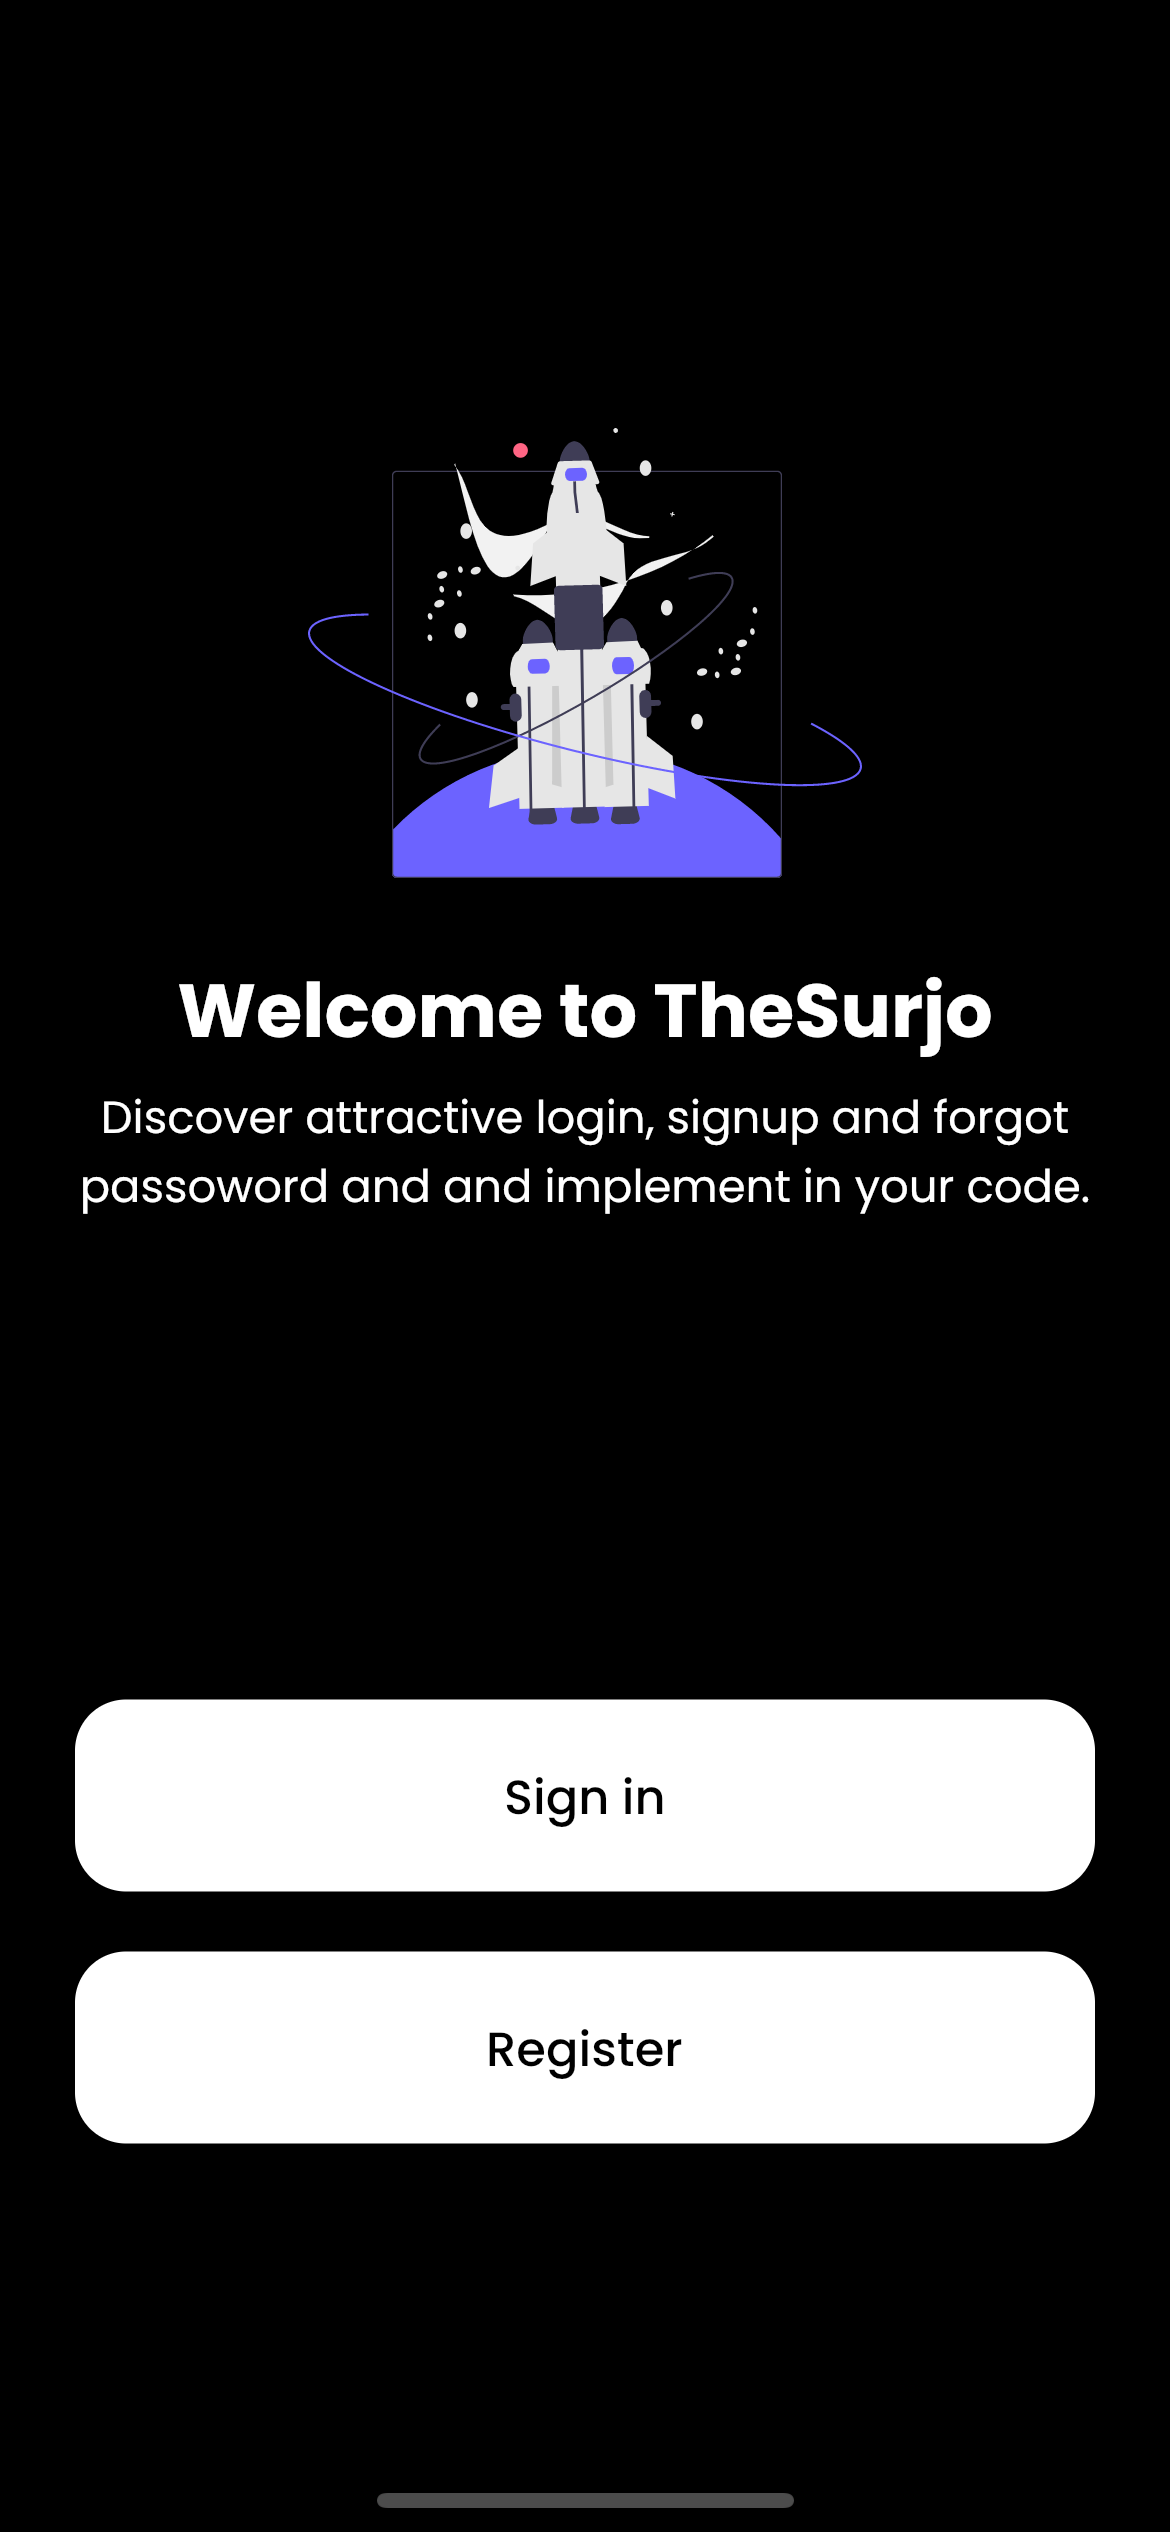
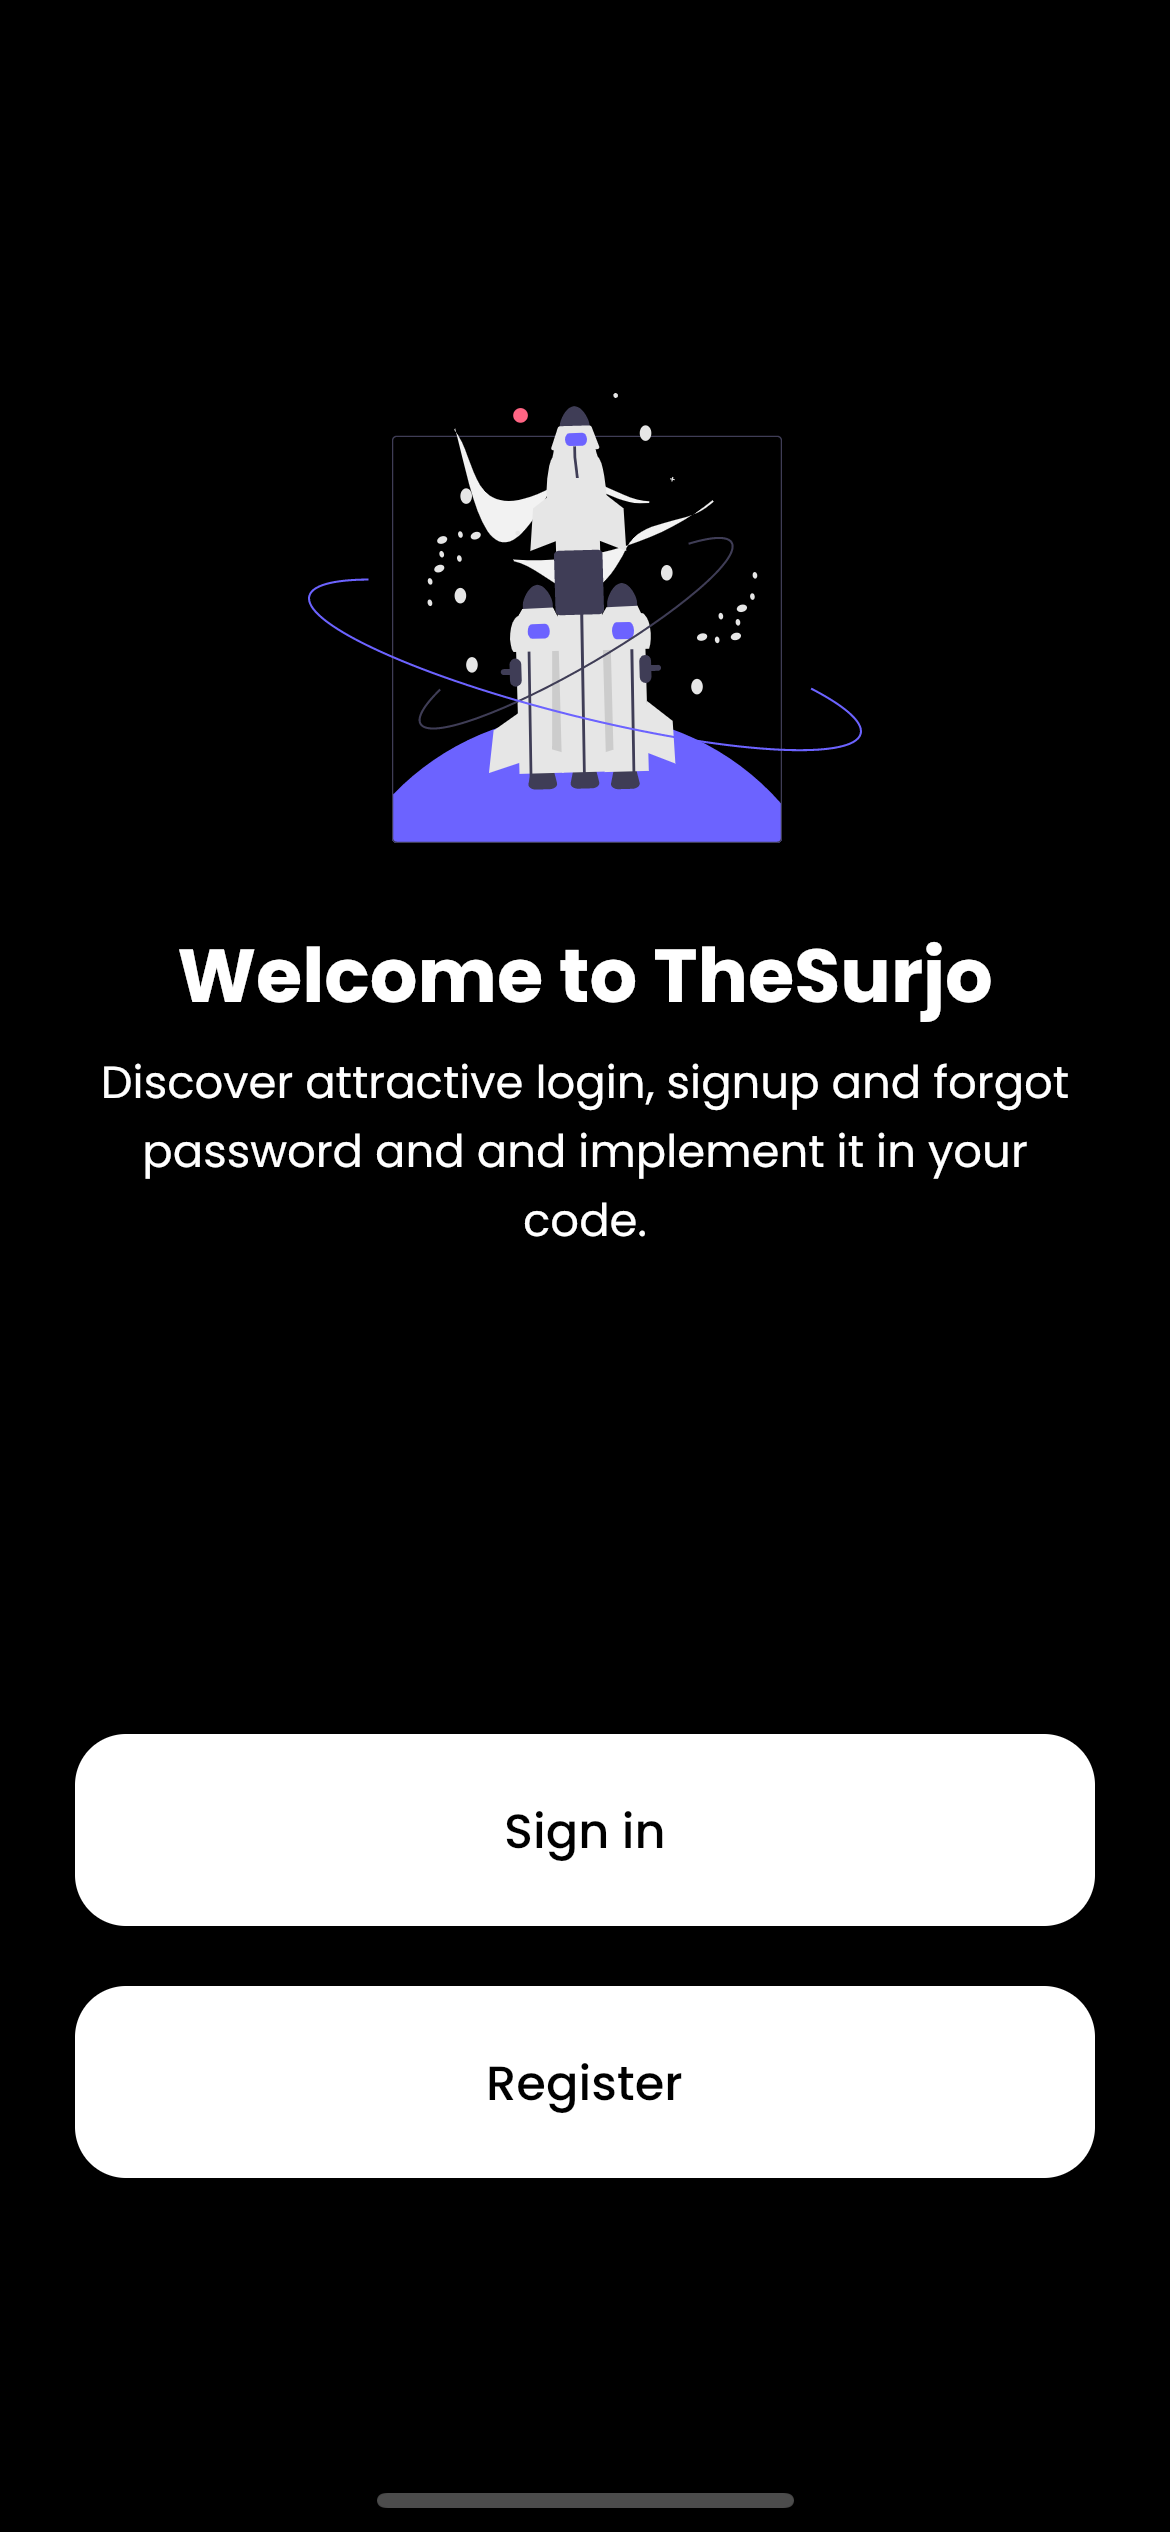
home screenshot change

diff --git a/lib/screens/home/home.dart b/lib/screens/home/home.dart
@@ -38,7 +38,7 @@ class _HomeState extends State<Home> {
             Padding(
               padding: const EdgeInsets.symmetric(horizontal: 25),
               child: Text(
-                  'Discover attractive login, signup and forgot passoword and and implement in your code.',
+                  'Discover attractive login, signup and forgot password and and implement it in your code.',
                   textAlign: TextAlign.center,
                   style: defaultFontStyle),
             ),
